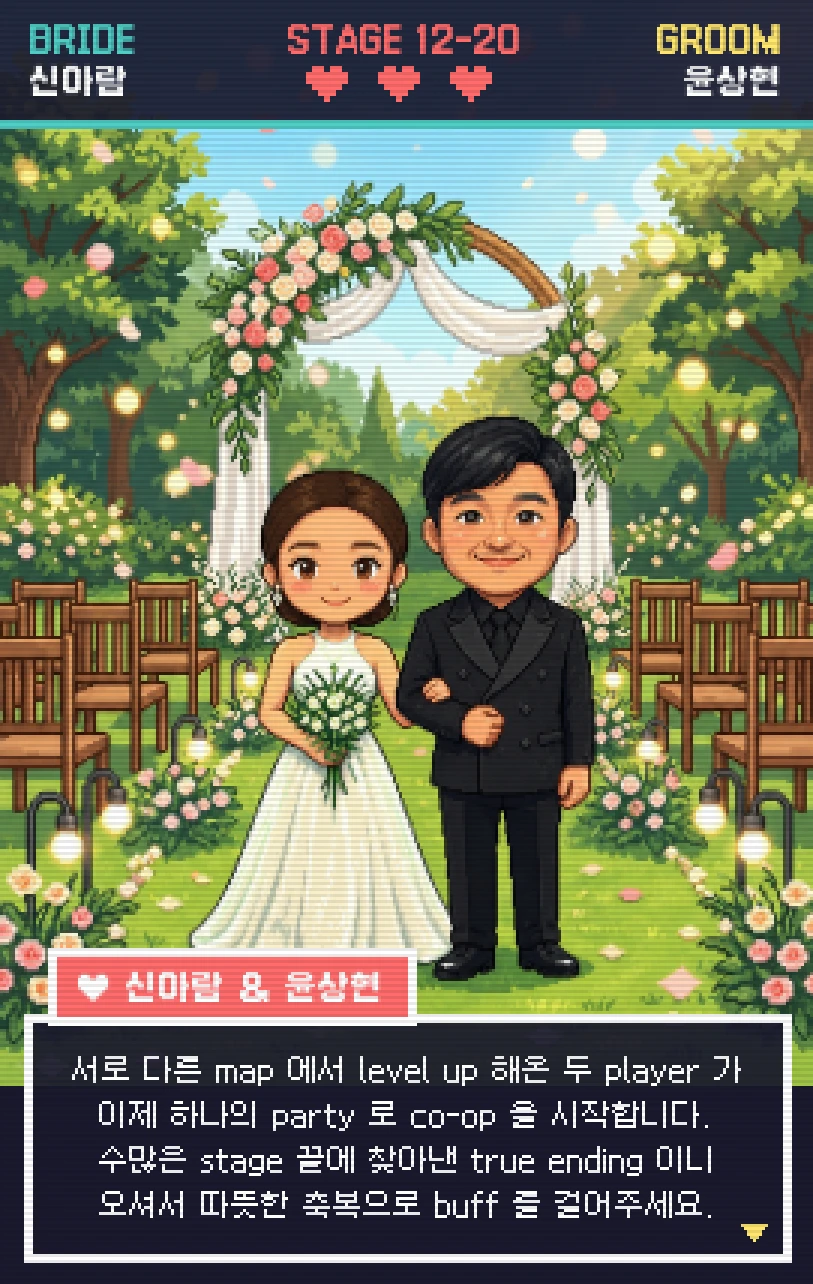
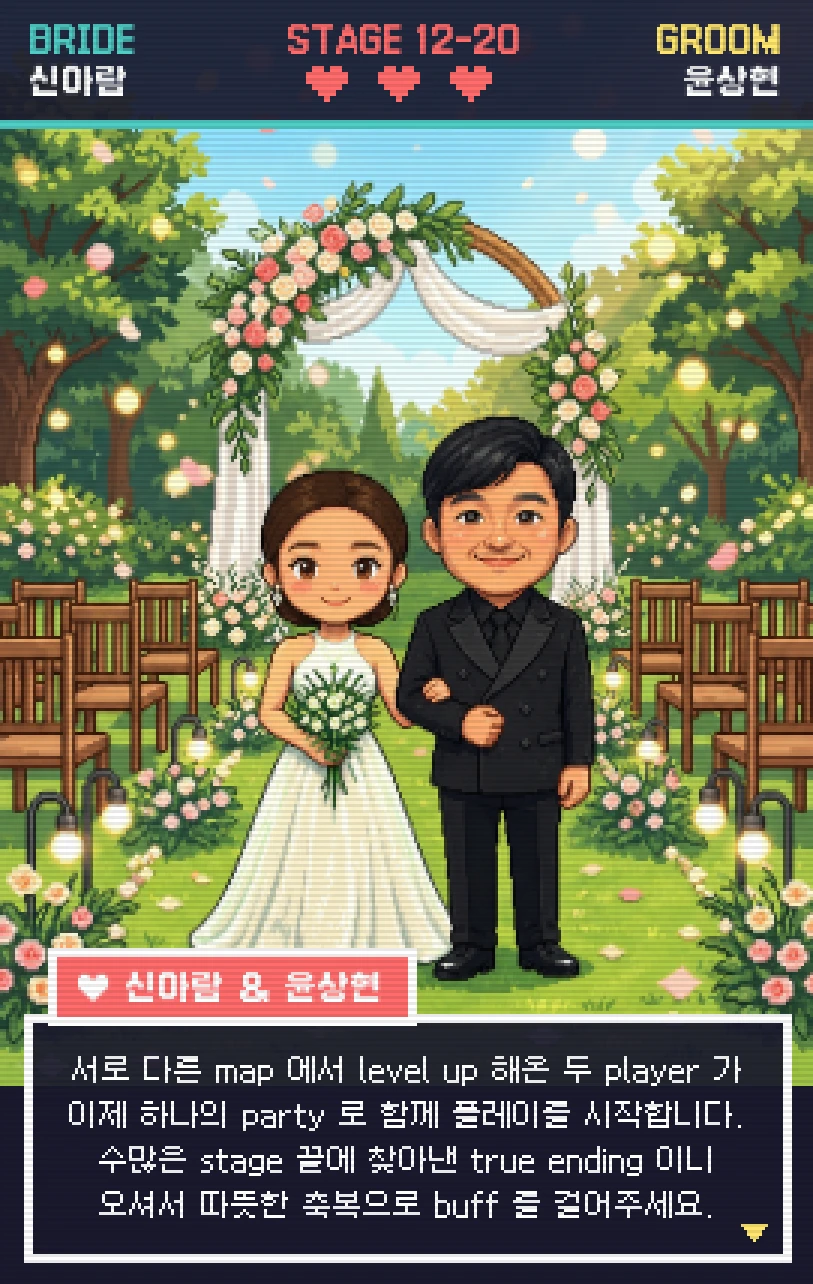
👾 인사말 'co-op' → '함께 플레이'

Changed region(s): [[0.0923, 0.8411, 0.861, 0.9034]]

diff --git a/retro-game.html b/retro-game.html
@@ -99,7 +99,7 @@
             <div class="section">
                 <div class="section-title">🎮 PLAYER SELECT</div>
                 <div class="stage-shot">
-                    <img src="images/garden-stage.webp?v=2" alt="정원 웨딩 아치 앞에 선 신부 신아람과 신랑 윤상현. 서로 다른 map 에서 level up 해온 두 player 가 이제 하나의 party 로 co-op 을 시작합니다. 수많은 stage 끝에 찾아낸 true ending 이니 오셔서 따뜻한 축복으로 buff 를 걸어주세요." width="813" height="1284">
+                    <img src="images/garden-stage.webp?v=3" alt="정원 웨딩 아치 앞에 선 신부 신아람과 신랑 윤상현. 서로 다른 map 에서 level up 해온 두 player 가 이제 하나의 party 로 함께 플레이를 시작합니다. 수많은 stage 끝에 찾아낸 true ending 이니 오셔서 따뜻한 축복으로 buff 를 걸어주세요." width="813" height="1284">
                 </div>
                 <div class="character-select">
                     <div class="character">
